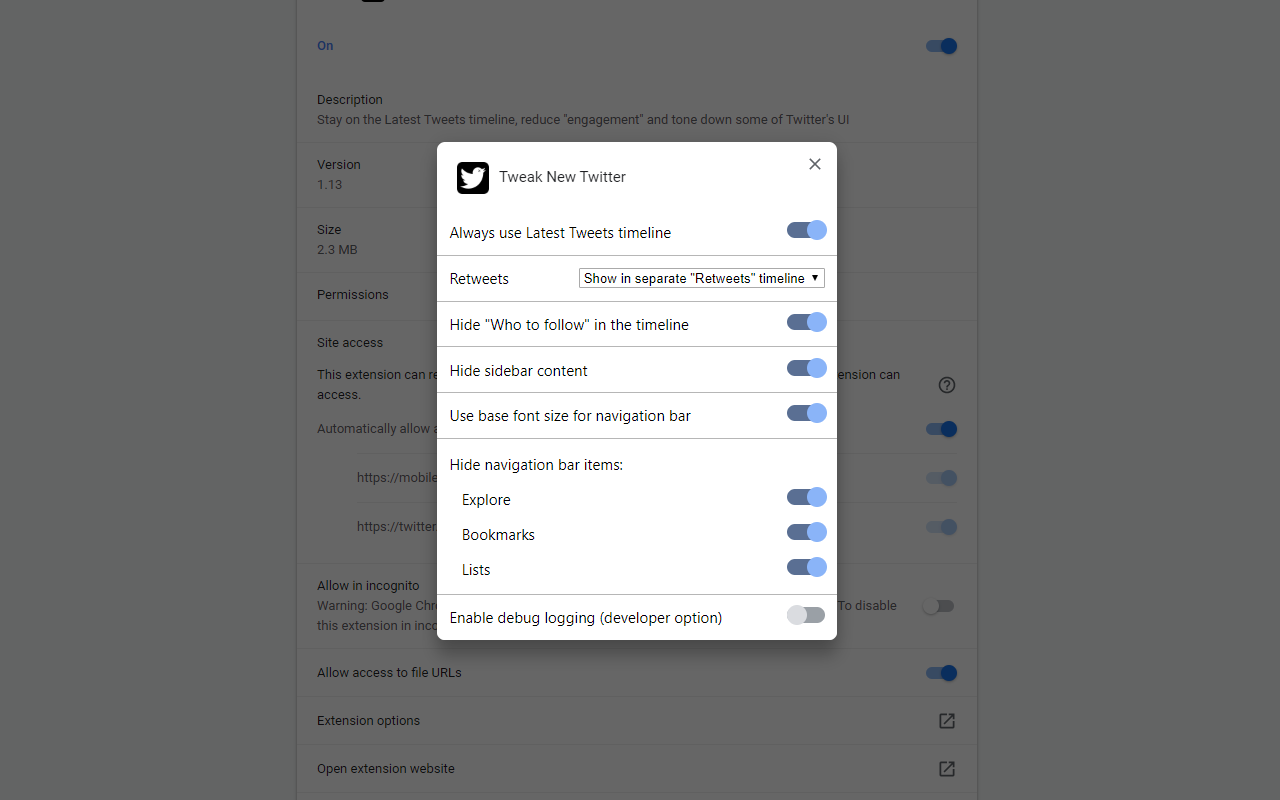
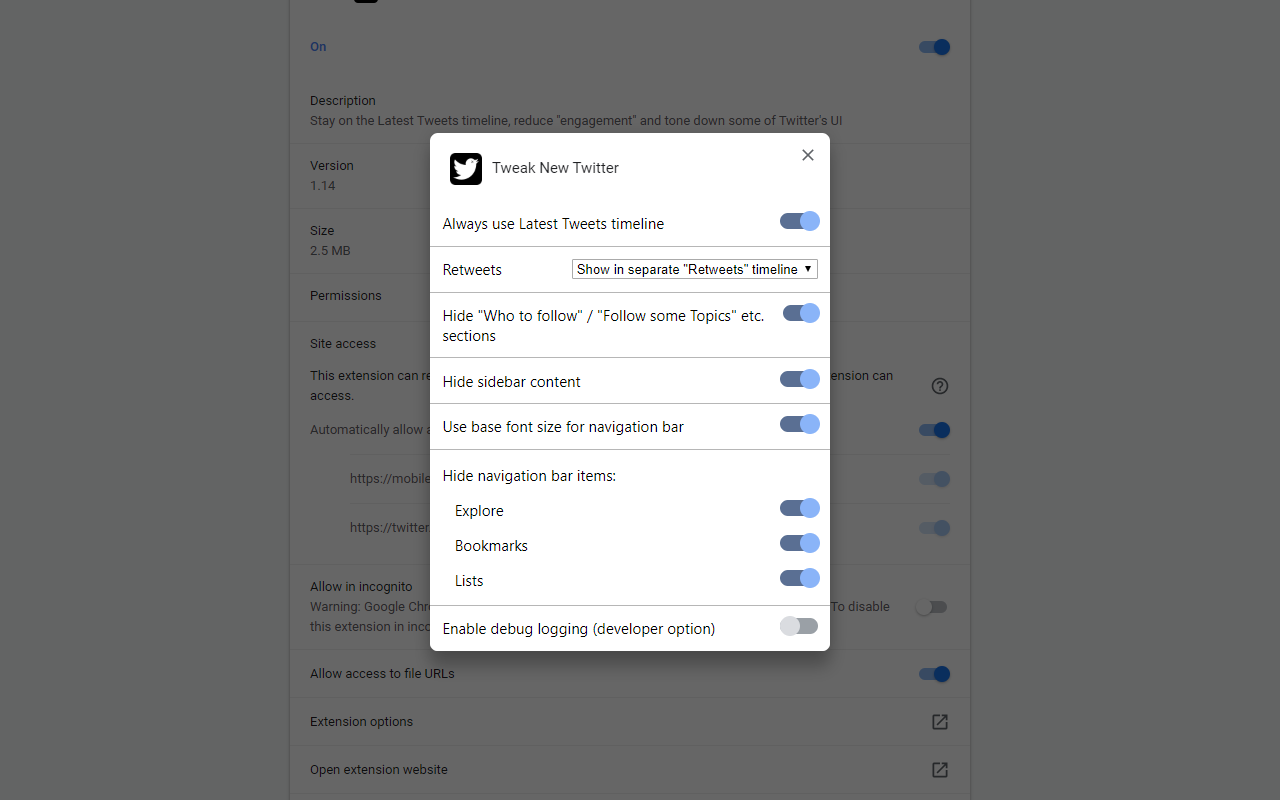
Made hiding of headered sections embedded in the timline a bit more aggressive This fixes hiding the divider between "Who to follow" sections and subsequent tweets This also hides "Follow some Topics" sections - updated the description of the extension option to reflect this

diff --git a/tweak-new-twitter.user.js b/tweak-new-twitter.user.js
@@ -20,7 +20,7 @@ let config = {
   hideExploreNav: true,
   hideListsNav: true,
   hideSidebarContent: true,
-  hideWhoToFollow: true,
+  hideWhoToFollowEtc: true,
   navBaseFontSize: true,
   /** @type {'separate'|'hide'|'ignore'} */
   retweets: 'separate',
@@ -44,7 +44,6 @@ let Selectors = {
   TWEET: 'div[data-testid="tweet"]',
   PROMOTED_TWEET: '[data-testid="placementTracking"]',
   TIMELINE_HEADING: 'h2[role="heading"]',
-  TIMELINE_USER: 'div[data-testid="UserCell"]',
 }
 
 Object.assign(Selectors, {
@@ -410,24 +409,20 @@ function onTimelineChange($timeline, page) {
       hideItem = shouldHideTweet(timelineItemType, page)
     }
 
-    if (timelineItemType == null && config.hideWhoToFollow) {
-      // "Who To Follow" heading
+    if (timelineItemType == null && config.hideWhoToFollowEtc) {
+      // "Who to follow", "Follow some Topics" etc. headings
       if ($item.querySelector(Selectors.TIMELINE_HEADING)) {
         timelineItemType = 'HEADING'
-        hideItem = true
-      }
-      // Users under the "Who To Follow" heading
-      else if ($item.querySelector(Selectors.TIMELINE_USER)) {
-        timelineItemType = 'USER'
         hideItem = true
       }
     }
 
     if (timelineItemType == null) {
-      // Assume a non-identified node following an identified node is related to it
-      // "Show this thread" / "Show more" links appear in subsequent nodes
+      // Assume a non-identified item following an identified item is related to it
+      // "Who to follow" users and "Follow some Topics" topics appear in subsequent items
+      // "Show this thread" and "Show more" links appear in subsequent items
       if (previousTimelineItemType != null) {
-        hideItem = !previousTimelineItemType.endsWith('TWEET') || shouldHideTweet(previousTimelineItemType, page)
+        hideItem = previousTimelineItemType == 'HEADING' || shouldHideTweet(previousTimelineItemType, page)
       }
       // The first item in the timeline is sometimes an empty placeholder <div>
       else if ($item !== $timeline.firstElementChild) {
@@ -438,9 +433,16 @@ function onTimelineChange($timeline, page) {
 
     if (hideItem != null) {
       (/** @type {HTMLElement} */ $item.firstElementChild).style.display = hideItem ? 'none' : ''
+      // Log these out as they can't be reliably triggered for testing
+      if (timelineItemType == 'HEADING' || previousTimelineItemType == 'HEADING') {
+        log(`hid a ${previousTimelineItemType == 'HEADING' ? 'post-' : ''}heading item`, $item)
+      }
     }
 
-    previousTimelineItemType = timelineItemType
+    // If we hid a heading, keep hiding everything after it until we hit a tweet
+    if (!(previousTimelineItemType == 'HEADING' && timelineItemType == null)) {
+      previousTimelineItemType = timelineItemType
+    }
   }
 }
 

diff --git a/options.html b/options.html
@@ -117,10 +117,10 @@
     </section>
     <section class="checkbox">
       <label>
-        <span>Hide "Who to follow" in the timeline</span>
+        <span>Hide "Who to follow" / "Follow some Topics" etc. sections</span>
         <div class="switch">
-          <input type="checkbox" name="hideWhoToFollow" id="hideWhoToFollow">
-          <label for="hideWhoToFollow"></label>
+          <input type="checkbox" name="hideWhoToFollowEtc" id="hideWhoToFollowEtc">
+          <label for="hideWhoToFollowEtc"></label>
         </div>
       </label>
     </section>

diff --git a/options.js b/options.js
@@ -8,7 +8,7 @@ chrome.storage.local.get((storedConfig) => {
     hideExploreNav: true,
     hideListsNav: true,
     hideSidebarContent: true,
-    hideWhoToFollow: true,
+    hideWhoToFollowEtc: true,
     navBaseFontSize: true,
     retweets: 'separate',
     ...storedConfig

diff --git a/README.md b/README.md
@@ -12,7 +12,7 @@
 
 - Always use the Latest Tweets (chronological) timeline - automatically switches you back when Twitter decides they'd rather you were on the "Home" (algorithmic) timeline because "engagement"
 - Move retweets to a separate Retweets timeline, or hide them entirely
-- Hide the "Who to follow" section in the timeline
+- Hide "Who to follow" / "Follow some Topics" etc. sections in the timeline
 - Remove sidebar content (Trends, Who to follow, sidefooter)
 - Remove some less-used links from the primary nav (Explore, Bookmarks, Links)
 - Use the site's base font size and normal font weight in the primary nav to make it less distracting (using your selected font size from the Display / Customize your view dialog)
